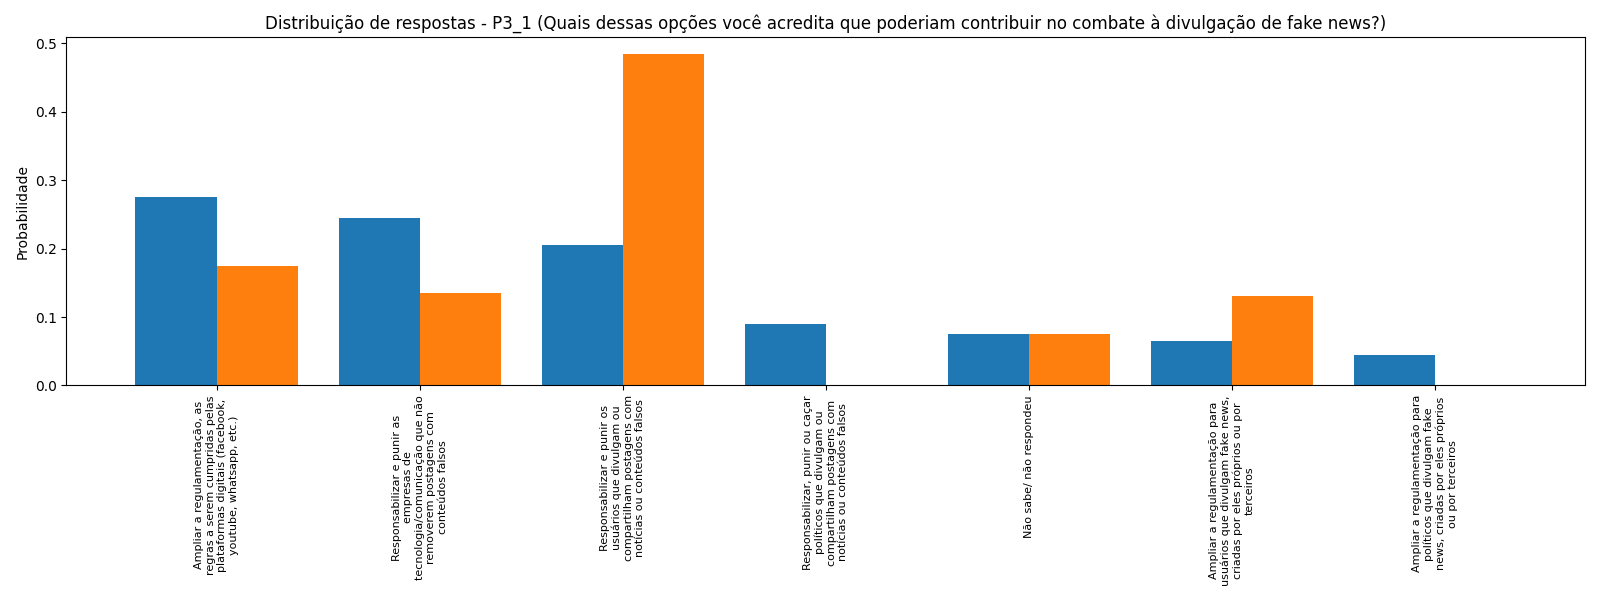
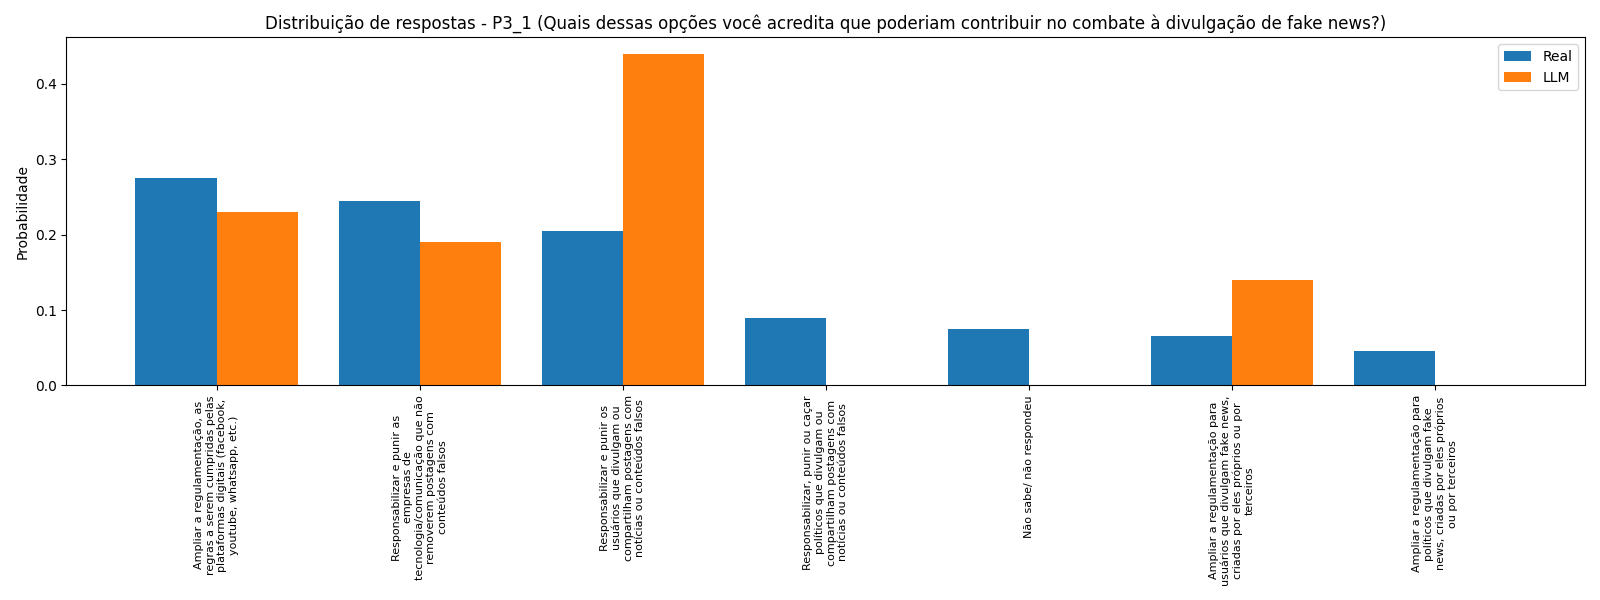
fix(llm): adicionei legenda nos plots

diff --git a/llm_simulation/src/display_data.py b/llm_simulation/src/display_data.py
@@ -32,6 +32,7 @@ def plot_question(question, title):
     plt.xticks(x, labels, rotation=90, ha="center", fontsize=8)
     plt.ylabel("Probabilidade")
     plt.title(f"Distribuição de respostas - {question} ({title})")
+    plt.legend()
 
     plt.tight_layout()
     plt.savefig(f"{OUTPUT_DIR}/{question}.png")
